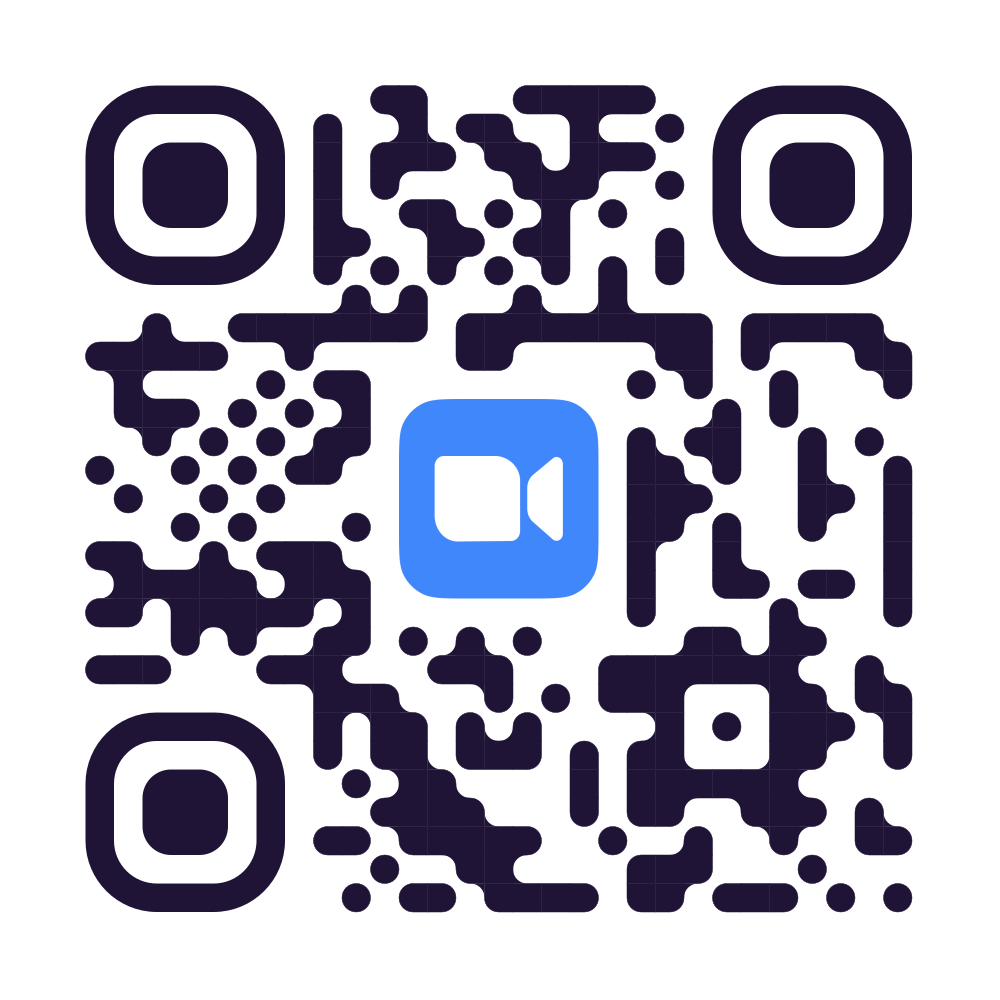
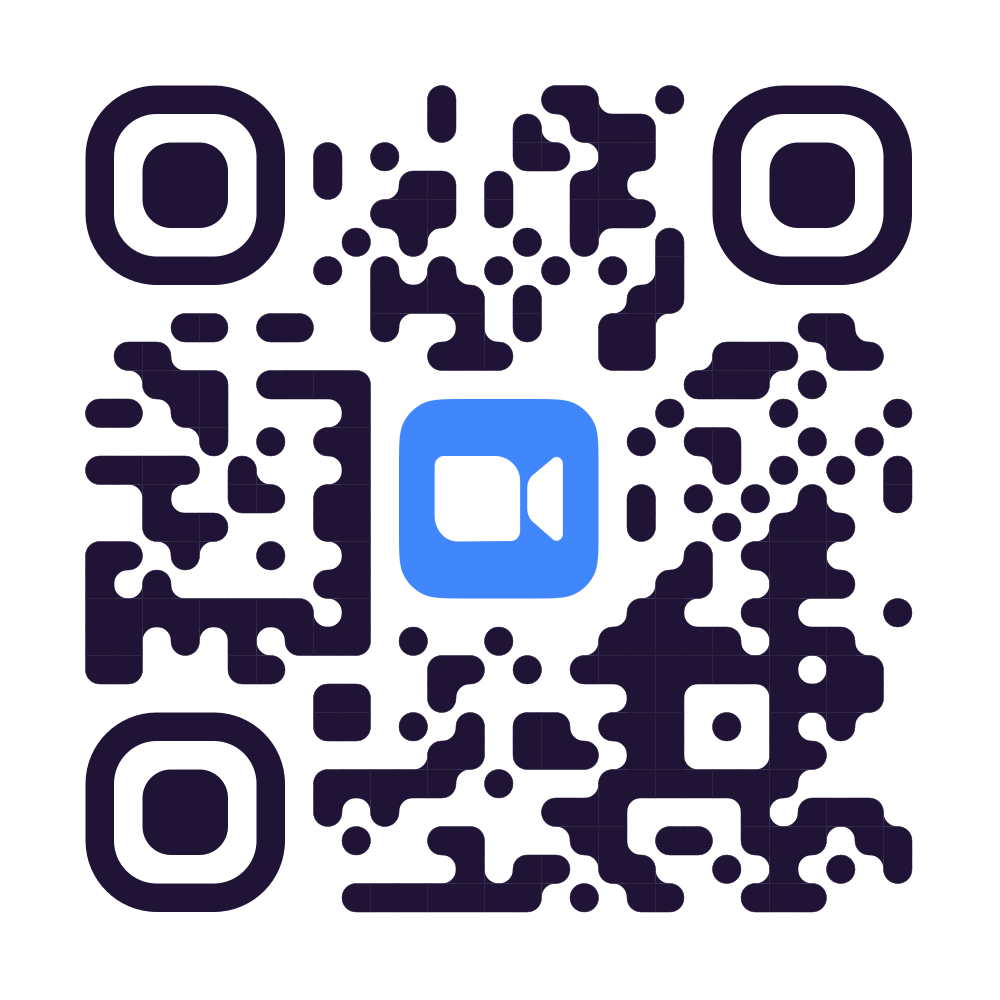
updated template, image, and qrcode

Changed region(s): [[0.062, 0.062, 0.93, 0.93], [0.775, 0.62, 0.93, 0.775], [0.31, 0.093, 0.341, 0.155]]

diff --git a/poster_template.html b/poster_template.html
@@ -8,18 +8,21 @@
 </head>
 <body>
     <div class="poster-container">
+        <!-- Background image as a div background, no <img> tag -->
+        <div class="background-image"></div>
+
+        <!-- Content -->
         <h1>Methods Lunch</h1>
-        <h1>Open Science Series:<br>
-            Git and GitHub Workshop (Part 1/2)</h1>
+        <h1>Open Science Series:<br>Git and GitHub Workshop (Part 2/2)</h1>
         <img src="poster_image.png" alt="[Session Specific Image]" class="poster-image">
         <div class="details">
-            <p>Join us for an engaging two-part Git and GitHub workshop designed to get you up to speed with essential version control skills. In the first session, you’ll learn foundational commands and best practices, including committing changes, using git pull and git push, handling untracked files with .gitignore, and understanding how to manage your project history effectively. We will also discuss how version control fosters collaboration and reproducibility in open science, demonstrating its impact on transparent research practices.</p>
+            <p>Join us for the second part of our engaging Git and GitHub workshop, where we’ll focus on collaborative workflows and practical applications. You’ll gain hands-on experience contributing to shared projects, learn to create and manage branches, and explore the differences between direct collaboration and forking. We’ll also cover making pull requests and resolving merge conflicts, equipping you with essential skills to collaborate effectively and support open science initiatives.</p>
         </div>
         <div class="speakers">
             <p><strong>Christine Moreau</strong> and <strong>Ali Tafakkor</strong></p>
         </div>
         <div class="info">
-            <p><strong>Date:</strong> November 18th, 2024</p>
+            <p><strong>Date:</strong> December 2nd, 2024</p>
             <p><strong>Time:</strong> 10:45 AM - 12 PM</p>
             <p><strong>Location:</strong> WIRB 4190 (Lunchroom)</p>
             <img src="zoom_qr.png" alt="[Session Specific Image]" class="qr-image">

diff --git a/styles.css b/styles.css
@@ -20,6 +20,26 @@ body {
     padding: 20px;
     text-align: center;
     border-radius: 10px;
+    position: relative; /* Position relative for layering */
+    overflow: hidden; /* Clips content that goes outside the border */
+}
+
+.background-image {
+    position: absolute;
+    top: 0;
+    left: 0;
+    width: 100%;
+    height: 100%;
+    background: url('image.png') center/cover no-repeat;
+    border-radius: 10px; /* Matches the container's border radius */
+    z-index: 0; /* Keep the background image behind the content */
+    background-blend-mode: overlay; /* Blend the image with the background color */
+    opacity: 0.2; /* Adjust the opacity to control the blending effect */
+}
+
+h1, .details, .speakers, .info, .qr-image, footer {
+    position: relative; /* Ensure all content stays above the background image */
+    z-index: 1; /* Layer content above the background */
 }
 
 h1 {
@@ -34,6 +54,8 @@ h1 {
     border-radius: 50%; /* Circular Image */
     object-fit: cover;
     margin: 0 auto;
+    position: relative; /* Ensure image stays above background */
+    z-index: 2; /* Higher z-index to ensure it's visible above everything */
 }
 
 .details {
@@ -47,10 +69,10 @@ h1 {
 }
 
 .speakers strong {
-    font-size: 1.5em; /* Increase font size */
-    font-weight: bold; /* Make the text bold (optional) */
-    color: #FFCC00; /* Western Gold color for emphasis (optional) */
-    margin-bottom: 10px; /* Add some space below */
+    font-size: 1.5em;
+    font-weight: bold;
+    color: #FFCC00; /* Western Gold color for emphasis */
+    margin-bottom: 10px;
 }
 
 .info p {
@@ -66,7 +88,7 @@ h1 {
     aspect-ratio: 1 / 1;
     max-width: 15%;
     max-height: 15%;
-    border-radius: 10px; /* Circular Image */
+    border-radius: 10px;
     object-fit: cover;
     margin: 0 auto;
 }
